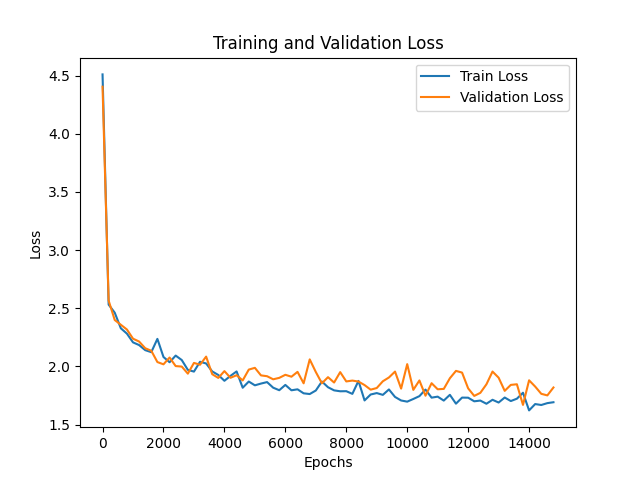
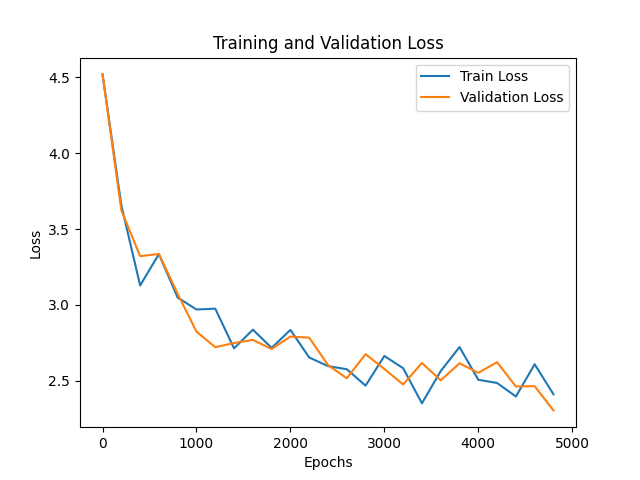
minor changes

diff --git a/shakespeare_gpt.py b/shakespeare_gpt.py
@@ -7,18 +7,17 @@ from tqdm import tqdm
 import time
 import json
 # set seed for reproducibility
-# torch.manual_seed(1337)
+torch.manual_seed(1337)
 
 # initialize wandb
 wandb.init(project="GPT 2 848K")
-wandb.run.tags = ['GPT 1', 'test run']
+wandb.run.tags = ['shakespeare text generation', 'test run', 'gelu activation', 'scaled down model']
 
 # pull from local folder
 filename = 'tinyshakespeare.txt'
 with open(filename, 'r') as f:
     text = f.read()
 
-# TODO: count how many params you're using in this code, and implement chinchilla law to understand how much data you need to ensure you aren't under training
 # get vocab
 vocab = list(sorted(set(text)))
 vocab_size = len(vocab)
@@ -130,7 +129,8 @@ class FeedForwardNN(nn.Module):
         super().__init__()
         self.net = nn.Sequential(
             nn.Linear(n_emb, 4 * n_emb), # add a factor of 4 to n_emb as per GPT-2, just to make it more expressive, increasing complexity and computation
-            nn.ReLU(), # TODO: use GELU instead of ReLU
+            # nn.ReLU(),
+            nn.GELU(),
             nn.Linear(4 * n_emb, n_emb), # linear projection back into the residual pathway
             nn.Dropout(dropout) # add right before connetion before residual connection
         )
@@ -200,7 +200,7 @@ class NanoGPT(nn.Module):
             # sample from the distribution
             next_token = torch.multinomial(probs, num_samples=1) # Bx1
             # append newly generated token to input idx to obtain new input for next generation iteration
-            idx = torch.cat([idx, next_token], dim=-1) # Bx(T+1) # TODO: understand why this is dim=-1
+            idx = torch.cat([idx, next_token], dim=-1) # Bx(T+1)
         return idx
 
 model = NanoGPT()
